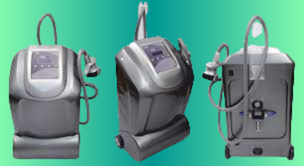
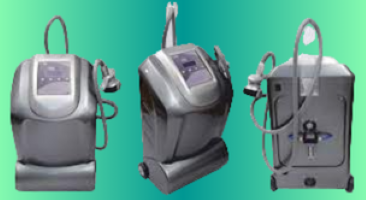
adicione un section al index, logre hacerlo 100% responsive, modifique las fotos

diff --git a/index.html b/index.html
@@ -83,7 +83,7 @@
                             </div>
                         </div>
                     </div>
-                    <div class="col-xs-12 col-sm-6 col-lg-4">
+                    <div class="col-xs-12 col-sm-6 col-md-6 col-lg-4">
                         <div class="card" style="width: 18rem;">
                             <img src="./fotos/faciales.jpg" class="card-img-top" alt="Tratamientos Faciales">
                             <div class="card-body">
@@ -138,51 +138,40 @@
                             <div class="card-body">
                                 <h2 class="card-title">Vela Slim Plus</h2>
                                 <p class="card-text"></p>
-                                <a href="./pages/Maquinas.html" class="btn btn-primary botoncontacto">Tratameintos
-                                    Corporales</a>
+                                <a href="./pages/Maquinas.html" class="btn btn-primary botoncontacto">Vela Slim Plus</a>
                             </div>
                         </div>
                     </div>
                     <div class="col-xs-12 col-sm-6 col-lg-4">
                         <div class="card" style="width: 18rem;">
-                            <img src="./fotos/criolipolisis.jpeg" class="card-img-top" alt="Tratamientos Faciales">
+                            <img src="./fotos/crioindex.png" class="card-img-top" alt="Tratamientos Faciales">
                             <div class="card-body">
                                 <h2 class="card-title">Criolipolisis</h2>
                                 <p class="card-text"></p>
-                                <a href="./pages/Maquinas.html" class="btn btn-primary botoncontacto">tratamientos
-                                    Faciales</a>
+                                <a href="./pages/Maquinas.html" class="btn btn-primary botoncontacto">Criolipolisis</a>
                             </div>
                         </div>
                     </div>
                     <div class="col-xs-12 col-sm-6 col-lg-4">
                         <div class="card" style="width: 18rem;">
-                            <img src="./fotos/manos.jpg" class="card-img-top" alt="Manos y pies">
+                            <img src="./fotos/hifuindex.png" class="card-img-top" alt="Manos y pies">
                             <div class="card-body">
-                                <h2 class="card-title">Manos y Pies</h2>
+                                <h2 class="card-title">Hifu 7D</h2>
                                 <p class="card-text"></p>
-                                <a href="./pages/servicios.html" class="btn btn-primary botoncontacto">Manos y Pies</a>
+                                <a href="./pages/servicios.html" class="btn btn-primary botoncontacto">Hifu 7D</a>
                             </div>
                         </div>
                     </div>
-                    <div class="col-xs-12 col-sm-6 col-lg-4">
+                    <div class="col-xs-12 col-sm-6 col-lg-3">
                         <div class="card" style="width: 18rem;">
-                            <img src="./fotos/peluqueria.jpg" class="card-img-top" alt="Peluqueria">
+                            <img src="./fotos/cristal index.png" class="card-img-top" alt="Peluqueria">
                             <div class="card-body">
-                                <h2 class="card-title">Peluqueria</h2>
+                                <h2 class="card-title">Cristal 3D</h2>
                                 <p class="card-text"></p>
-                                <a href="./pages/servicios.html" class="btn btn-primary botoncontacto">Peluqueria</a>
+                                <a href="./pages/servicios.html" class="btn btn-primary botoncontacto">Cristal 3D</a>
                             </div>
                         </div>
                     </div>
-                    <div class="col-xs-12 col-sm-6 col-lg-4">
-                        <div class="card" style="width: 18rem;">
-                            <img src="./fotos/cejas.jpg" class="card-img-top" alt="...">
-                            <div class="card-body">
-                                <h2 class="card-title">Cejas y Pestañas</h2>
-                                <p class="card-text"></p>
-                                <a href="./pages/servicios.html" class="btn btn-primary botoncontacto">Cejas y
-                                    pestañas</a>
-                            </div>
                         </div>
                     </div>
                 </div>

diff --git a/css/estilo.css b/css/estilo.css
@@ -10,12 +10,12 @@
 }
 
 header {
-    width: 100vw;
+    width: 90%;
     margin: 0 auto;
 }
 
 body {
-    width: 100vw;
+    width: 100%;
     min-height: calc(100vh - 100px - 300px);
     display: flex;
     flex-direction: column;
@@ -23,7 +23,7 @@ body {
 
 }
 main{;
-    width: 100vw;
+    width: 100%;
     background-image: linear-gradient(120deg, #84fab0 0%, #8fd3f4 100%);
 }
 
@@ -109,12 +109,12 @@ a:hover {
 
 .mainindex {
     text-align: center;
-    width: 100vw;
+    width: 100%;
 }
 
 .imgindex {
-    width: 90%;
-    padding: 0.5rem;
+    width: 100%;
+    filter: brightness(55%);
 }
 
 .sectionmain {
@@ -127,8 +127,6 @@ a:hover {
 
 ul {
     font-family: 'Klee One', cursive;
-    position: relative;
-    left: 100px;
     list-style-type: none;
 }
 
@@ -139,13 +137,13 @@ ul {
 }
 
 footer {
-    width: 100vw;
+    width: 100%;
     margin: 0 auto;
     background-color: #184e77;
 }
 
 .containerFoot {
-    width: 100vw;
+    width: 90%;
     gap: 20px;
     justify-content: space-between;
 }
@@ -170,7 +168,7 @@ footer {
 }
 
 .maincontacto {
-    width: 100vw;
+    width: 90vw;
 }
 
 .botoncontacto {
@@ -190,5 +188,5 @@ footer {
 }
 .bordes{
     border-bottom: gray solid 1px;
-    max-width: 90vw;
+    max-width: 90%;
 }
